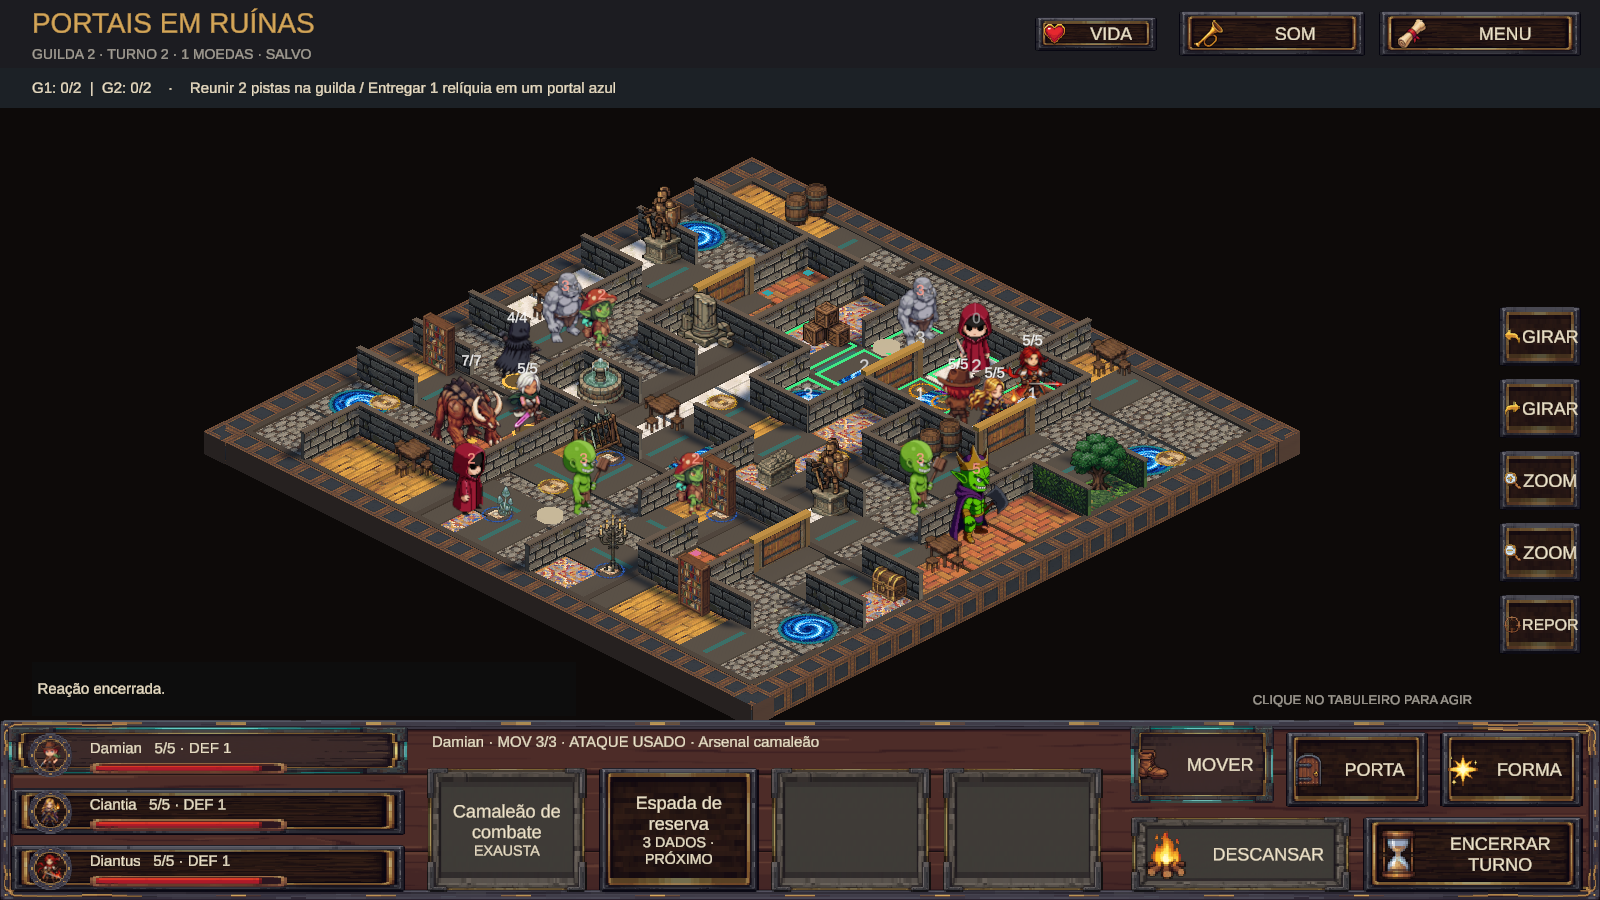
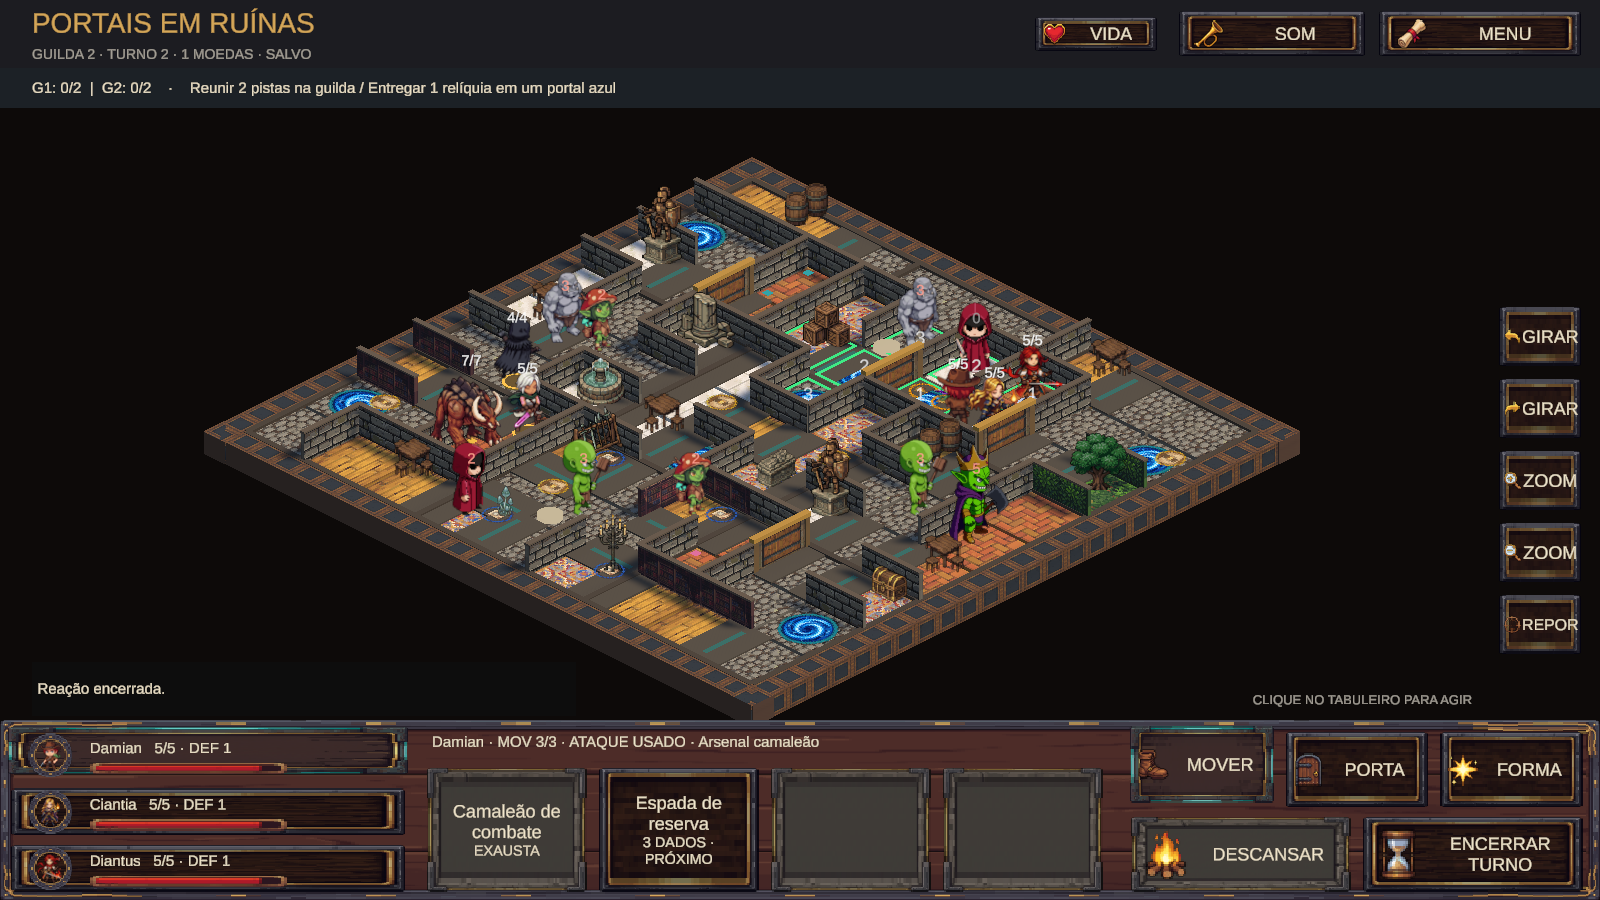
feat(dungeonbdx): bookshelf wall skin replaces the shelf props

Changed region(s): [[0.375, 0.4978, 0.4688, 0.5911], [0.2188, 0.3422, 0.3125, 0.4356], [0.4062, 0.6222, 0.4688, 0.6844]]

diff --git a/ArenaTaticaUnity/Assets/DungeonBDX/Runtime/AqBoardView.cs b/ArenaTaticaUnity/Assets/DungeonBDX/Runtime/AqBoardView.cs
@@ -276,6 +276,7 @@ namespace DungeonBDX
         string WallArtFor(AqEdge edge)
         {
             string a = board.Contains(edge.A) ? board.Space(edge.A).Surface : null, b = board.Contains(edge.B) ? board.Space(edge.B).Surface : null;
+            if (board.Contains(edge.A) && board.Space(edge.A).Wall == "books" || board.Contains(edge.B) && board.Space(edge.B).Wall == "books") return "wall-books";
             if (a == "crypt" || b == "crypt") return "wall-crypt";
             if (a == "garden" || b == "garden") return "hedge";
             return "wall";
@@ -290,7 +291,8 @@ namespace DungeonBDX
             var material = MaterialLook(key, Color.white, art, false);
             if (fresh)
             {
-                var tiling = new Vector2(1f, WallHeight);
+                // The bookshelf strip is drawn at the wall's own proportions; the square tiles show their lower band.
+                var tiling = id == "wall-books" ? Vector2.one : new Vector2(1f, WallHeight);
                 material.mainTextureScale = tiling;
                 if (material.HasProperty("_BaseMap")) material.SetTextureScale("_BaseMap", tiling);
             }
@@ -432,7 +434,7 @@ namespace DungeonBDX
         void BuildProp(string prop, AqCell cell)
         {
             prop = (prop ?? "").Trim().ToLowerInvariant();
-            var art = prop == "books" ? null : Resources.Load<Texture2D>("DungeonBDX/Iso/Props/" + prop);
+            var art = Resources.Load<Texture2D>("DungeonBDX/Iso/Props/" + prop);
             if (art) { BuildPropArt(prop, art, cell); return; }
             var center = PropAnchor(board, cell, PropHalf(prop));
             var wood = MaterialLook("prop-wood", new Color(.55f,.36f,.20f), null, false);
@@ -440,13 +442,6 @@ namespace DungeonBDX
             var stone = MaterialLook("prop-stone", new Color(.60f,.58f,.53f), null, false);
             switch ((prop ?? "").Trim().ToLowerInvariant())
             {
-                case "books" when BuildShelfSprite(center):
-                    break;
-                case "books":
-                    Slab("Book", center + Vector3.up*.035f, new Vector3(.34f,.07f,.26f), MaterialLook("book-a", new Color(.60f,.24f,.22f), null, false), boardRoot);
-                    Slab("Book", center + Vector3.up*.105f, new Vector3(.30f,.07f,.24f), MaterialLook("book-b", new Color(.24f,.36f,.50f), null, false), boardRoot);
-                    Slab("Book", center + Vector3.up*.175f, new Vector3(.26f,.07f,.20f), MaterialLook("book-c", new Color(.72f,.62f,.30f), null, false), boardRoot);
-                    break;
                 case "table":
                     Slab("Table", center + Vector3.up*.36f, new Vector3(.64f,.07f,.54f), wood, boardRoot);
                     Slab("Table leg", center + Vector3.up*.17f, new Vector3(.14f,.34f,.14f), woodDark, boardRoot);
@@ -1245,27 +1240,6 @@ namespace DungeonBDX
             var renderer = go.GetComponent<SpriteRenderer>();
             renderer.sprite = sprite;
             renderer.sortingOrder = -20;
-        }
-
-        bool BuildShelfSprite(Vector3 center)
-        {
-            string[] names = {"sw","ne","nw","se"};
-            var sprites = new Sprite[4];
-            for (int i=0;i<4;i++)
-            {
-                var texture = Resources.Load<Texture2D>("DungeonBDX/Iso/Props/bookshelf_" + names[i]);
-                if (!texture) return false;
-                // Every view keeps the same world height (.82), whatever the drawn width.
-                sprites[i] = ArtSprite("Props/bookshelf_" + names[i], new Vector2(.5f,0f), texture.height/.82f);
-            }
-            var go = new GameObject("Bookshelf", typeof(SpriteRenderer));
-            go.transform.SetParent(boardRoot, false);
-            go.transform.position = center;
-            go.transform.localScale = new Vector3(1f, IsoStretch, 1f);
-            var prop = new PropSprite {Renderer=go.GetComponent<SpriteRenderer>(), Facing=Vector3.back, ByDirection=sprites};
-            propSprites.Add(prop);
-            RefreshPropSprite(prop);
-            return true;
         }
 
         void RefreshPropSprite(PropSprite prop)

diff --git a/ArenaTaticaUnity/Assets/DungeonBDX/Tests/Editor/AqPropArtTests.cs b/ArenaTaticaUnity/Assets/DungeonBDX/Tests/Editor/AqPropArtTests.cs
@@ -15,7 +15,7 @@ namespace DungeonBDX.Tests
             foreach (var id in AqScenarios.Ids)
             {
                 var s = AqScenarios.Create(id);
-                foreach (var space in s.Board.Spaces.Where(p => !string.IsNullOrEmpty(p.Prop) && p.Prop != "books" && p.Prop != "rune"))
+                foreach (var space in s.Board.Spaces.Where(p => !string.IsNullOrEmpty(p.Prop) && p.Prop != "rune"))
                 {
                     var art = Resources.Load<Texture2D>("DungeonBDX/Iso/Props/" + space.Prop);
                     Assert.That(art, Is.Not.Null, id + " " + space.Prop);
@@ -40,6 +40,19 @@ namespace DungeonBDX.Tests
                 Assert.That(Resources.Load<Texture2D>("DungeonBDX/Iso/UI/" + ui), Is.Not.Null, ui);
             foreach (var icon in new[] {"move","door","ability","rest","endturn","sword","claw","skip","rotate-left","rotate-right","zoom-in","zoom-out","reset","menu","sound","life"})
                 Assert.That(Resources.Load<Texture2D>("DungeonBDX/Iso/UI/Icons/" + icon), Is.Not.Null, icon);
+        }
+
+        [Test] public void BookRoomsWearShelfWallsInsteadOfAShelfProp()
+        {
+            Assert.That(Resources.Load<Texture2D>("DungeonBDX/Iso/Walls/wall-books"), Is.Not.Null);
+            int shelved = 0;
+            foreach (var id in AqScenarios.Ids)
+            {
+                var s = AqScenarios.Create(id);
+                Assert.That(s.Board.Spaces.Any(p => p.Prop == "books"), Is.False, id);
+                shelved += s.Board.Spaces.Count(p => p.Wall == "books");
+            }
+            Assert.That(shelved, Is.GreaterThan(0));
         }
     }
 }

diff --git a/ArenaTaticaUnity/Assets/DungeonBDX/Arcadia/AqBoard.cs b/ArenaTaticaUnity/Assets/DungeonBDX/Arcadia/AqBoard.cs
@@ -17,7 +17,7 @@ namespace DungeonBDX.Arcadia
     public sealed class AqSpace
     {
         public AqCell Cell;
-        public string Surface="street", Room="", Prop="";
+        public string Surface="street", Room="", Prop="", Wall="";
         public int Tile;
     }
     public sealed class AqEdge
@@ -281,7 +281,8 @@ namespace DungeonBDX.Arcadia
             for(int y=y0;y<=y1;y++)for(int x=x0;x<=x1;x++)
             {
                 var p=s.Board.Space(new AqCell(x,y));p.Room=name;p.Surface=surface;
-                if(x==x0&&y==y0)p.Prop=prop;
+                // "books" rooms wear bookshelf walls instead of a shelf prop.
+                if(prop=="books")p.Wall="books";else if(x==x0&&y==y0)p.Prop=prop;
                 foreach(var d in new[]{new AqCell(1,0),new AqCell(-1,0),new AqCell(0,1),new AqCell(0,-1)})
                 {
                     var b=new AqCell(x+d.X,y+d.Y);

diff --git a/coordenacao/dungeonbdx/HANDOFF-CLAUDE-17-10-2026.md b/coordenacao/dungeonbdx/HANDOFF-CLAUDE-17-10-2026.md
@@ -24,6 +24,10 @@
 - Paredes finas: `AqBoardView.WallThickness=.06`, `WallHeight=.42` (antes .15–.21 de espessura). `WallArtFor`: cripta → wall-crypt, jardim → sebe, resto → pedra. Portas mais finas. `PropAnchor` usa a espessura nova (prop pode ir até .45 do centro).
 - EditMode 374/374, build ok, capturas ok. PixelLab: ver `get_balance` (≈41 gerações).
 
+## Commit seguinte: paredes-estante (autor: "tire as estantes de livros e faça paredes com skin com estante de livros")
+- Sem prop de estante: `Room(...,"books")` marca `AqSpace.Wall="books"` em toda a sala; `WallArtFor` usa `Iso/Walls/wall-books` (PixelLab pixflux b6cd2199, 128x56 ampliado 8x, tiling 1x1) em qualquer parede vizinha. Removidos `BuildShelfSprite` e o primitivo de livros (PNGs `Props/bookshelf_*` ficam, sem uso). Fonte em `entregas/pixellab-mapa/estante/`.
+- Teste `BookRoomsWearShelfWallsInsteadOfAShelfProp`. EditMode 375/375, build ok, capturas ok (estante um pouco escura sob a luz da cena).
+
 ## Pendente
 1. Gastar as 66 gerações restantes em animações (caminhada dos chefes/lacaios ≈ 12 cada).
 2. Ícones ainda não usados (moedas, emblema, relíquia, pista, cativo, ritual, portal, tesouro, missão, dado, caveira, coroa…) podem entrar nos marcadores do placar/missões.
